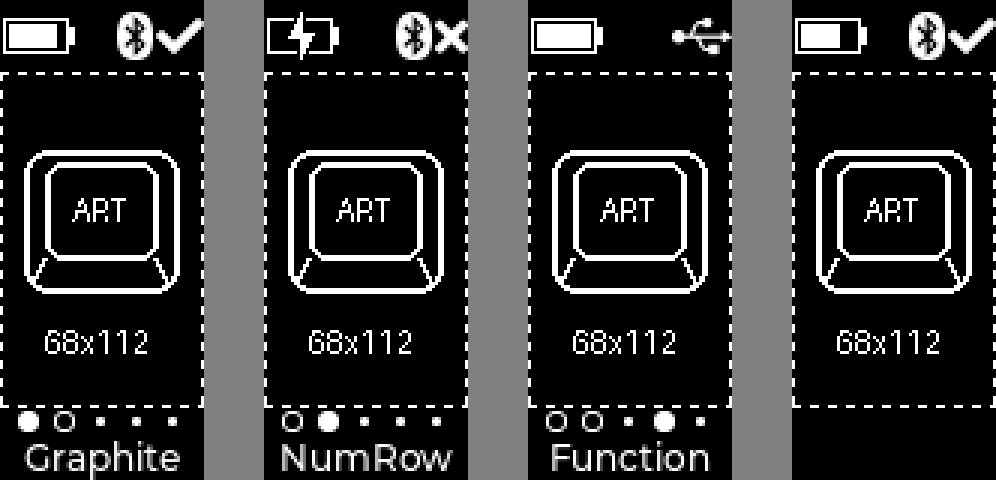
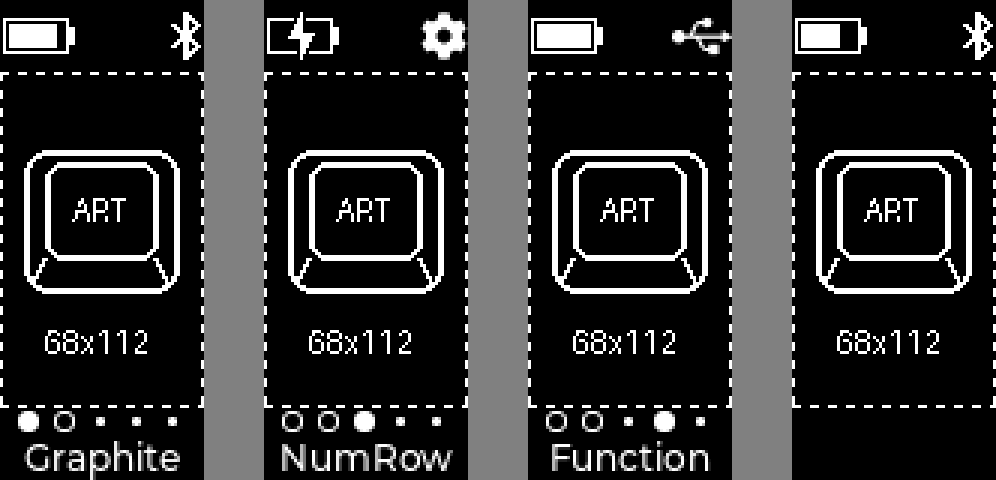
Plain Bluetooth rune when connected, gear when pairing, x when not connected
Claude-Session: https://claude.ai/code/session_01KQZscbGfS88Exd1VASWYd7

diff --git a/boards/shields/nice_view_custom/widgets/status.c b/boards/shields/nice_view_custom/widgets/status.c
@@ -59,25 +59,24 @@ static void draw_top(lv_obj_t *widget, const struct status_state *state) {
 
     draw_battery_icon(canvas, 1, TOP_BAND_Y + 6, state->battery, state->charging);
 
-    /* Connection: USB, or Bluetooth + state (connected / pairing / not connected) */
-    const char *icon = "";
+    /* Connection: USB, Bluetooth connected, pairing (gear), paired but not connected (x) */
     switch (state->selected_endpoint.transport) {
     case ZMK_TRANSPORT_USB:
-        icon = LV_SYMBOL_USB;
+        canvas_draw_text(canvas, 0, TOP_BAND_Y + 3, CANVAS_SIZE, &icon_dsc, LV_SYMBOL_USB);
         break;
     case ZMK_TRANSPORT_BLE:
         if (!state->active_profile_bonded) {
-            icon = LV_SYMBOL_BLUETOOTH LV_SYMBOL_REFRESH; /* open profile, advertising */
+            canvas_draw_text(canvas, 0, TOP_BAND_Y + 3, CANVAS_SIZE, &icon_dsc,
+                             LV_SYMBOL_SETTINGS);
         } else if (state->active_profile_connected) {
-            icon = LV_SYMBOL_BLUETOOTH LV_SYMBOL_OK;
+            draw_bt_rune(canvas, CANVAS_SIZE - 11, TOP_BAND_Y + 4);
         } else {
-            icon = LV_SYMBOL_BLUETOOTH LV_SYMBOL_CLOSE;
+            canvas_draw_text(canvas, 0, TOP_BAND_Y + 3, CANVAS_SIZE, &icon_dsc, LV_SYMBOL_CLOSE);
         }
         break;
     default:
         break;
     }
-    canvas_draw_text(canvas, 0, TOP_BAND_Y + 3, CANVAS_SIZE, &icon_dsc, icon);
 
     rotate_canvas(canvas);
 }

diff --git a/boards/shields/nice_view_custom/widgets/bt_rune.c b/boards/shields/nice_view_custom/widgets/bt_rune.c
@@ -1,0 +1,34 @@
+/* Bluetooth rune, drawn on the top-band canvas (portrait, not rotated). -- 10x16, 1 bit */
+
+#include <lvgl.h>
+
+#ifndef LV_ATTRIBUTE_MEM_ALIGN
+#define LV_ATTRIBUTE_MEM_ALIGN
+#endif
+
+#ifndef LV_ATTRIBUTE_IMG_BT_RUNE
+#define LV_ATTRIBUTE_IMG_BT_RUNE
+#endif
+
+const LV_ATTRIBUTE_MEM_ALIGN LV_ATTRIBUTE_LARGE_CONST LV_ATTRIBUTE_IMG_BT_RUNE uint8_t bt_rune_map[] = {
+#if CONFIG_NICE_VIEW_CUSTOM_INVERTED
+    0x00, 0x00, 0x00, 0xff, /* index 0: background (black) */
+    0xff, 0xff, 0xff, 0xff, /* index 1: foreground (white) */
+#else
+    0xff, 0xff, 0xff, 0xff, /* index 0: background (white) */
+    0x00, 0x00, 0x00, 0xff, /* index 1: foreground (black) */
+#endif
+
+    0x0c, 0x00, 0x0e, 0x00, 0x0f, 0x00, 0x0d, 0x80, 0xcc, 0xc0, 0x6d, 0x80, 0x3f, 0x00, 0x1e, 0x00,
+    0x1e, 0x00, 0x3f, 0x00, 0x6d, 0x80, 0xcc, 0xc0, 0x0d, 0x80, 0x0f, 0x00, 0x0e, 0x00, 0x0c, 0x00,
+};
+
+const lv_image_dsc_t bt_rune = {
+    .header.magic = LV_IMAGE_HEADER_MAGIC,
+    .header.cf = LV_COLOR_FORMAT_I1,
+    .header.w = 10,
+    .header.h = 16,
+    .header.stride = 2,
+    .data_size = sizeof(bt_rune_map),
+    .data = bt_rune_map,
+};

diff --git a/boards/shields/nice_view_custom/widgets/peripheral_status.c b/boards/shields/nice_view_custom/widgets/peripheral_status.c
@@ -43,9 +43,11 @@ static void draw_top(lv_obj_t *widget, const struct status_state *state) {
     draw_battery_icon(canvas, 1, TOP_BAND_Y + 6, state->battery, state->charging);
 
     /* Link to the central half */
-    canvas_draw_text(canvas, 0, TOP_BAND_Y + 3, CANVAS_SIZE, &icon_dsc,
-                     state->connected ? LV_SYMBOL_BLUETOOTH LV_SYMBOL_OK
-                                      : LV_SYMBOL_BLUETOOTH LV_SYMBOL_CLOSE);
+    if (state->connected) {
+        draw_bt_rune(canvas, CANVAS_SIZE - 11, TOP_BAND_Y + 4);
+    } else {
+        canvas_draw_text(canvas, 0, TOP_BAND_Y + 3, CANVAS_SIZE, &icon_dsc, LV_SYMBOL_CLOSE);
+    }
 
     rotate_canvas(canvas);
 }

diff --git a/boards/shields/nice_view_custom/widgets/util.c b/boards/shields/nice_view_custom/widgets/util.c
@@ -9,6 +9,7 @@
 #include "util.h"
 
 LV_IMG_DECLARE(bolt);
+LV_IMG_DECLARE(bt_rune);
 LV_IMG_DECLARE(nice_view_custom_art);
 
 void rotate_canvas(lv_obj_t *canvas) {
@@ -65,6 +66,12 @@ void draw_battery_icon(lv_obj_t *canvas, lv_coord_t x, lv_coord_t y, uint8_t lev
             canvas_draw_rect(canvas, x + 2, y + 2, fill, 8, &fg);
         }
     }
+}
+
+void draw_bt_rune(lv_obj_t *canvas, lv_coord_t x, lv_coord_t y) {
+    lv_draw_image_dsc_t img_dsc;
+    lv_draw_image_dsc_init(&img_dsc);
+    canvas_draw_img(canvas, x, y, &bt_rune, &img_dsc);
 }
 
 void init_label_dsc(lv_draw_label_dsc_t *label_dsc, lv_color_t color, const lv_font_t *font,

diff --git a/boards/shields/nice_view_custom/widgets/util.h b/boards/shields/nice_view_custom/widgets/util.h
@@ -65,6 +65,9 @@ void init_label_dsc(lv_draw_label_dsc_t *label_dsc, lv_color_t color, const lv_f
                     lv_text_align_t align);
 void init_rect_dsc(lv_draw_rect_dsc_t *rect_dsc, lv_color_t bg_color);
 
+/* Bluetooth rune without the badge outline, 10x16, top-left at (x, y) */
+void draw_bt_rune(lv_obj_t *canvas, lv_coord_t x, lv_coord_t y);
+
 void canvas_draw_rect(lv_obj_t *canvas, lv_coord_t x, lv_coord_t y, lv_coord_t w, lv_coord_t h,
                       lv_draw_rect_dsc_t *draw_dsc);
 void canvas_draw_text(lv_obj_t *canvas, lv_coord_t x, lv_coord_t y, lv_coord_t max_w,

diff --git a/README.md b/README.md
@@ -4,7 +4,7 @@ A nice!view status screen for ZMK **main / v0.4 (Zephyr 4.1, LVGL 9)**, for spli
 
 ![Preview](art/preview.png)
 
-*Left to right: central connected on Graphite; charging, profile 2 not connected, NumRow; USB, Function; peripheral. Rendered from the module's drawing code with LVGL 9.3.*
+*Left to right: central connected on Graphite; charging and pairing a new profile on NumRow; USB on Function; peripheral. Rendered from the module's drawing code with LVGL 9.3.*
 
 | Section | Central (left) | Peripheral (right) |
 |---|---|---|
@@ -12,7 +12,7 @@ A nice!view status screen for ZMK **main / v0.4 (Zephyr 4.1, LVGL 9)**, for spli
 | Art (112 px) | 68×112 image | 68×112 image |
 | Bottom band (24 px) | BLE profile dots, active layer name | Optional label |
 
-Connection icon: USB symbol = USB output; Bluetooth + ✓ connected; Bluetooth + ⟳ pairing (empty profile, advertising); Bluetooth + ✕ paired device not connected. On the peripheral the icon shows its link to the central.
+Connection icon: USB symbol = USB output; Bluetooth rune = connected; gear = pairing (empty profile, advertising); ✕ = paired device not connected. On the peripheral the icon shows its link to the central (rune or ✕).
 
 Battery: each half shows its own; the bar shows the level, a bolt replaces it while charging over USB.
 
